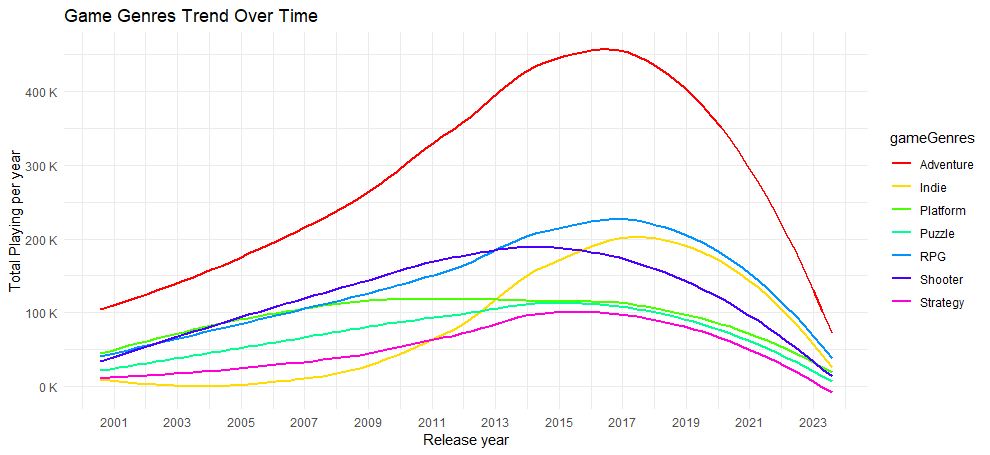
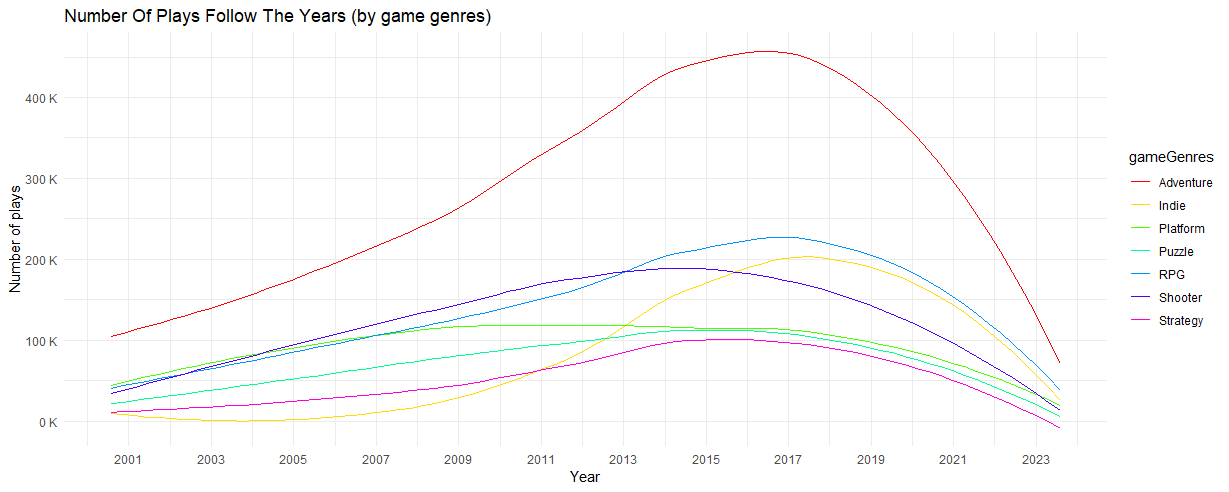
update content

diff --git a/_posts/2023-08-16-EDA-1.3-videogames.md b/_posts/2023-08-16-EDA-1.3-videogames.md
@@ -6,9 +6,9 @@ tags: ['Data Analyst', 'Data Insight', 'EDA']
 ---
 > Part 3: Overtime trend and Conclusion
 
-Firstly, we need to convert the `release_date` to date datatype,
+- We need to convert the `release_date` to date datatype,
 
-then we group the data by game genres
+- We group the data by game genres
 ```R
 # Import library
 library(dplyr)
@@ -24,10 +24,9 @@ genre_df <- video_games_separate_genres_df %>%
   select(gameGenres, release_date, number_of_plays) %>%
   filter(release_date > as.Date("2000-01-01")) %>%
   group_by(gameGenres)
-  
 ```
 Next step, we create a summary table by group the `video_games_separate_genres_df` dataframe by month or year (base on our intension)
-## Genres trends Over Time:
+## 5. Genres trends Over Time:
 The target is observe how number of play the game has change over time, potentially it reflect changes in gaming trends.
 
 I want to view trend by year, so I create a new column `release_year` by value of `release_date` column
@@ -35,21 +34,31 @@ I want to view trend by year, so I create a new column `release_year` by value o
 # Group by genres and release_year and calculate total playing
 summary_df <- genre_df %>%
   group_by(gameGenres, release_year = format(release_date, "%Y")) %>%
-  summarise(total_playing = sum(number_of_plays))
+  summarise(
+  number_of_game_release = n(),
+  total_playing = sum(number_of_plays)
+  )
 
-# Create the line chart
+# Convert datatype
 summary_df$release_year <- as.yearmon(summary_df$release_year, format = "%Y")
 
+```
+I choose top 7 genres, which have most number of games: "Adventure", "Shooter", "RPG", "Platform", "Indie", "Strategy", "Puzzle"
+```R
 #select genres
 selected_genres <- c("Adventure", "Shooter", "RPG", "Platform", "Indie", "Strategy", "Puzzle")
-#draw chart
+
+```
+Draw chart demonstrate Number Of Game have Released Follow The Years (by game genres)
+```R
+# Chart 3.1
 summary_df %>% 
   filter(gameGenres %in% selected_genres) %>%
   ggplot(aes(x = release_year, y = total_playing, color = gameGenres)) +
   geom_smooth(method = "loess", se = FALSE) +
-  labs(title = "Game Genres Trend Over Time",
-       x = "Release year",
-       y = "Total Playing per year") +
+  labs(title = "Number Of Plays Follow The Years (by game genres)",
+       x = "Year",
+       y = "Number of plays") +
   scale_x_yearmon(breaks = seq(from = as.yearmon("2001-01"), to = as.yearmon("2023-01"), by = 2), format = "%Y") +
   scale_y_continuous(labels = scales::label_number_si(unit = "K", scale = 1e-3)) +
   theme_minimal() +
@@ -59,9 +68,29 @@ summary_df %>%
 
 ![image tooltip here](/assets/images/EDA1/Rplot_EDA1_3.1.png)
 
+Draw chart demonstrate
 
-## Release Date Trends (which month):
+```R
+# Chart 3.3
+summary_df %>% 
+  filter(gameGenres %in% selected_genres) %>%
+  ggplot(aes(x = release_year, y = number_of_game_release, color = gameGenres)) +
+  geom_smooth(method = "loess", se = FALSE) +
+  labs(title = "Number Of Game Release Follow The Years (by game genres)",
+       x = "Year",
+       y = "Number of game") +
+  scale_x_yearmon(breaks = seq(from = as.yearmon("2001-01"), to = as.yearmon("2023-01"), by = 2), format = "%Y") +
+  theme_minimal() +
+  scale_color_manual(values = rainbow(length(selected_genres)))
+```
+>Output
+
+![image tooltip here](/assets/images/EDA1/Rplot_EDA1_3.3.png)
+
+## 6. Release Date Trends (month within a year):
 Analyze if there's a relationship between release dates and game ratings or popularity. Are games released in certain months more likely to perform well?
+
+I want to view trend by year, so I create a new column `release_month` by value of `release_date` column
 ```R
 # Group by genres and release_month and calculate total playing
 summary_df <- genre_df %>%
@@ -70,24 +99,44 @@ summary_df <- genre_df %>%
 
 # Convert release_month to numeric format
 summary_df$release_month <- as.numeric(summary_df$release_month)
-#select genres
-selected_genres <- c("Adventure", "Shooter", "RPG", "Platform", "Indie", "Strategy", "Puzzle")
-
-#draw chart
+```
+Draw chart demonstrate Number Of Plays Follow The Months (by game genres)
+```R
+#draw chart 3.2
 summary_df %>% 
   filter(gameGenres %in% selected_genres) %>%
-  ggplot(aes(x = release_month, y = total_playing, color = gameGenres)) +
+  ggplot(aes(x = release_month, y = total_plays, color = gameGenres)) +
   geom_line() +
-  labs(title = "Game Genres Trend Over Month In A Year",
-       x = "Release month",
-       y = "Total number of plays follow the month") +
-  scale_x_continuous(breaks = 1:12, labels = 1:12, minor_breaks = NULL) +
+  labs(title = "Number Of Plays Follow The Months (by game genres)",
+       x = "Month",
+       y = "Number of plays") +
+  scale_x_continuous(breaks = 1:12, labels = 1:12, minor_breaks = NULL) +  
   scale_y_continuous(labels = scales::label_number_si(unit = "K", scale = 1e-3)) +
   theme_minimal() +
   scale_color_manual(values = rainbow(length(selected_genres)))
-
 ```
+>Output
+
 ![image tooltip here](/assets/images/EDA1/Rplot_EDA1_3.2.png)
+
+
+Draw chart demonstrate Number Of Game have Released Follow The Months (by game genres)
+```R
+# Chart 3.4
+summary_df %>% 
+  filter(gameGenres %in% selected_genres) %>%
+  ggplot(aes(x = release_month, y = number_of_game_release, color = gameGenres)) +
+  geom_line() +
+  labs(title = "Number Of Game have Released Follow The Months (by game genres)",
+       x = "Month",
+       y = "Number of game have released") +
+  scale_x_continuous(breaks = 1:12, labels = 1:12, minor_breaks = NULL) +  
+  theme_minimal() +
+  scale_color_manual(values = rainbow(length(selected_genres)))
+```
+>Output
+
+![image tooltip here](/assets/images/EDA1/Rplot_EDA1_3.4.png)
 
 # Conclution
 
